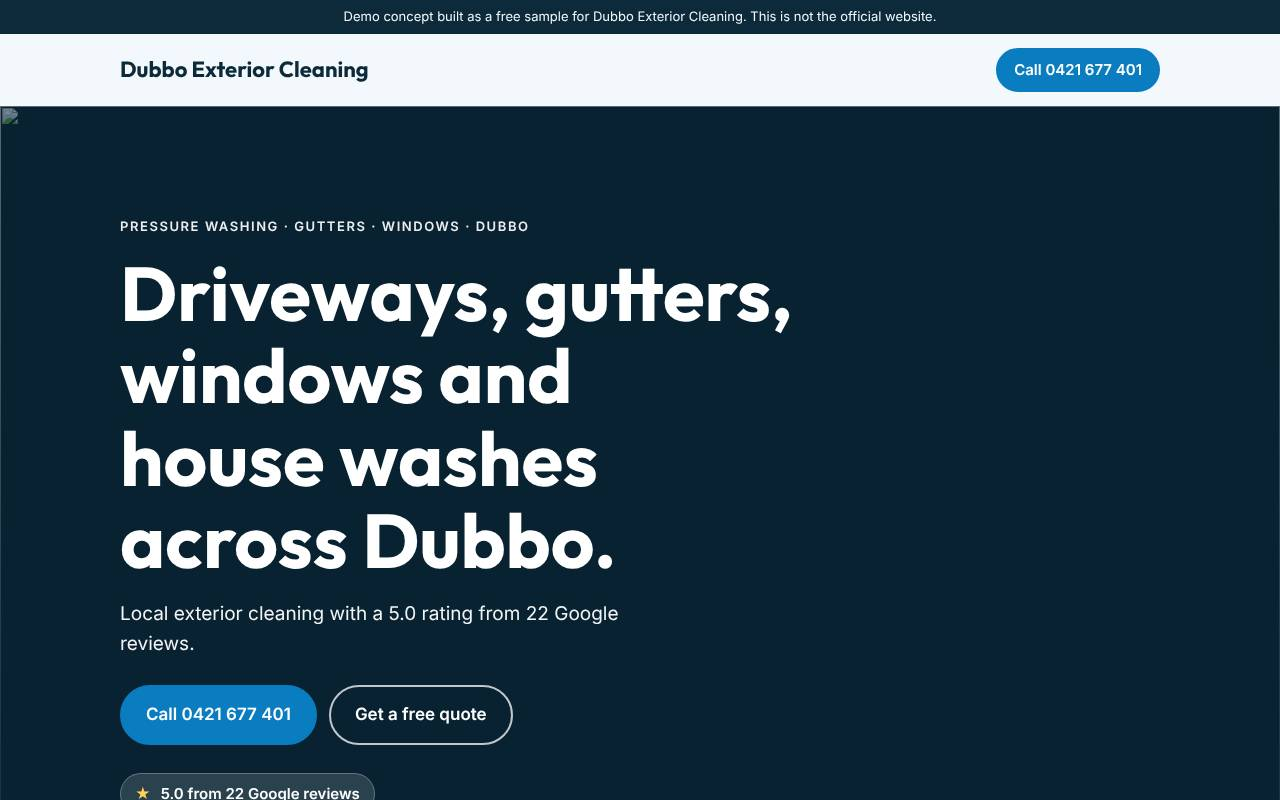
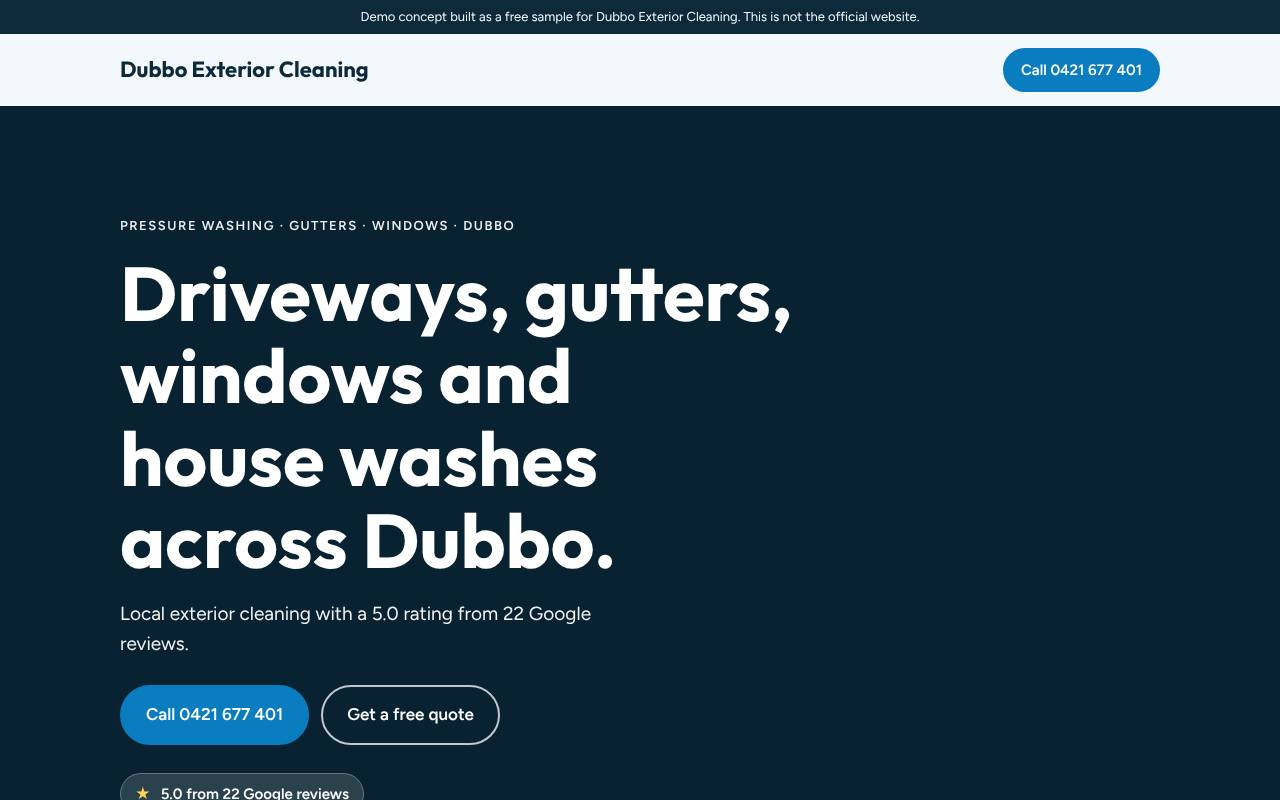
Replace Inter with distinct body fonts across demo and studio pages
Each affected demo now has its own body face (Instrument Sans, Albert
Sans, Figtree, Archivo) so the demos no longer share one generic font.
Rebuilds the site and re-shoots the four affected demos.

Claude-Session: https://claude.ai/code/session_01G6vTZEbZJwDra4ZmzM1Kxf

diff --git a/sales-pipeline/build.js b/sales-pipeline/build.js
@@ -14,14 +14,14 @@ const esc = (s) => String(s == null ? '' : s).replace(/&/g, '&amp;').replace(/</
 
 const THEMES = {
   lawn: { fonts: 'Barlow+Condensed:wght@600;700&family=Barlow:wght@400;500;600', hf: "'Barlow Condensed'", bf: "'Barlow'", bg: '#F4F6EF', surface: '#FFFFFF', ink: '#14261A', muted: '#566458', line: '#DDE3D6', accent: '#2E7D32', accentInk: '#FFFFFF', tint: '16,34,22', upper: true },
-  'lawn-sun': { fonts: 'Bricolage+Grotesque:wght@600;800&family=Inter:wght@400;500;600', hf: "'Bricolage Grotesque'", bf: "'Inter'", bg: '#FFFBEA', surface: '#FFFFFF', ink: '#1F2A14', muted: '#5C6650', line: '#EADFB8', accent: '#F2B705', accentInk: '#1F2A14', accentText: '#7A5C00', tint: '26,38,16' },
+  'lawn-sun': { fonts: 'Bricolage+Grotesque:wght@600;800&family=Instrument+Sans:wght@400;500;600', hf: "'Bricolage Grotesque'", bf: "'Instrument Sans'", bg: '#FFFBEA', surface: '#FFFFFF', ink: '#1F2A14', muted: '#5C6650', line: '#EADFB8', accent: '#F2B705', accentInk: '#1F2A14', accentText: '#7A5C00', tint: '26,38,16' },
   cafe: { fonts: 'Fraunces:opsz,wght@9..144,500;9..144,700&family=DM+Sans:wght@400;500;700', hf: "'Fraunces'", bf: "'DM Sans'", bg: '#FAF5EC', surface: '#FFFFFF', ink: '#2B2118', muted: '#6B5D50', line: '#E8DCC8', accent: '#C4552D', accentInk: '#FFFFFF', tint: '43,33,24' },
   diner: { fonts: 'Oswald:wght@500;700&family=DM+Sans:wght@400;500;700', hf: "'Oswald'", bf: "'DM Sans'", bg: '#FFF7EE', surface: '#FFFFFF', ink: '#1B1B1F', muted: '#5F5A57', line: '#F0DDCB', accent: '#D7263D', accentInk: '#FFFFFF', tint: '40,10,16', upper: true, checker: true },
-  detailing: { dark: true, fonts: 'Sora:wght@600;700&family=Inter:wght@400;500;600', hf: "'Sora'", bf: "'Inter'", bg: '#0D1117', surface: '#161B22', ink: '#F0F3F6', muted: '#9BA7B4', line: '#27303B', accent: '#3BA7FF', accentInk: '#06131F', tint: '6,10,16' },
+  detailing: { dark: true, fonts: 'Sora:wght@600;700&family=Albert+Sans:wght@400;500;600', hf: "'Sora'", bf: "'Albert Sans'", bg: '#0D1117', surface: '#161B22', ink: '#F0F3F6', muted: '#9BA7B4', line: '#27303B', accent: '#3BA7FF', accentInk: '#06131F', tint: '6,10,16' },
   mechanic: { dark: true, fonts: 'Barlow+Condensed:wght@600;700&family=Barlow:wght@400;500;600', hf: "'Barlow Condensed'", bf: "'Barlow'", bg: '#141618', surface: '#1D2023', ink: '#F3F1EC', muted: '#A6A39C', line: '#2E3236', accent: '#F28C28', accentInk: '#1A1206', tint: '12,13,14', upper: true },
-  wash: { fonts: 'Outfit:wght@600;700&family=Inter:wght@400;500;600', hf: "'Outfit'", bf: "'Inter'", bg: '#F2F8FC', surface: '#FFFFFF', ink: '#0C2A3A', muted: '#4F6675', line: '#D5E6F0', accent: '#0A7CC0', accentInk: '#FFFFFF', tint: '8,34,50' },
+  wash: { fonts: 'Outfit:wght@600;700&family=Figtree:wght@400;500;600', hf: "'Outfit'", bf: "'Figtree'", bg: '#F2F8FC', surface: '#FFFFFF', ink: '#0C2A3A', muted: '#4F6675', line: '#D5E6F0', accent: '#0A7CC0', accentInk: '#FFFFFF', tint: '8,34,50' },
   sparky: { dark: true, fonts: 'Barlow+Condensed:wght@600;700&family=Barlow:wght@400;500;600', hf: "'Barlow Condensed'", bf: "'Barlow'", bg: '#0B1B2B', surface: '#12273C', ink: '#F4F7FA', muted: '#9FB3C6', line: '#1F3A55', accent: '#FFC629', accentInk: '#0B1B2B', tint: '8,20,34', upper: true },
-  barber: { dark: true, fonts: 'Anton&family=Inter:wght@400;500;600', hf: "'Anton'", bf: "'Inter'", bg: '#0F0F10', surface: '#1A1A1C', ink: '#F5F2EA', muted: '#A8A39A', line: '#2B2B2E', accent: '#E0B04A', accentInk: '#14100A', tint: '10,10,10', upper: true },
+  barber: { dark: true, fonts: 'Anton&family=Archivo:wght@400;500;600', hf: "'Anton'", bf: "'Archivo'", bg: '#0F0F10', surface: '#1A1A1C', ink: '#F5F2EA', muted: '#A8A39A', line: '#2B2B2E', accent: '#E0B04A', accentInk: '#14100A', tint: '10,10,10', upper: true },
   'barber-classic': { fonts: 'DM+Serif+Display&family=DM+Sans:wght@400;500;700', hf: "'DM Serif Display'", bf: "'DM Sans'", bg: '#F6F1E7', surface: '#FFFDF8', ink: '#1E2A22', muted: '#5E675F', line: '#E2D9C6', accent: '#8A2B2B', accentInk: '#FFFFFF', tint: '30,42,34' },
 };
 
@@ -187,11 +187,11 @@ ${themes}
 
 // ---------- studio pages (one-pager + portfolio) ----------
 const STUDIO_CSS = `
-*{box-sizing:border-box}body{margin:0;background:#F7F5F0;color:#17202A;font:400 17px/1.65 'Inter',system-ui,sans-serif}
-h1,h2,h3{font-family:'Bricolage Grotesque','Inter',sans-serif;line-height:1.1;margin:0;text-wrap:balance}
+*{box-sizing:border-box}body{margin:0;background:#F7F5F0;color:#17202A;font:400 17px/1.65 'Instrument Sans',system-ui,sans-serif}
+h1,h2,h3{font-family:'Bricolage Grotesque','Instrument Sans',sans-serif;line-height:1.1;margin:0;text-wrap:balance}
 .wrap{max-width:920px;margin:0 auto;padding:0 20px}a{color:#0B5FFF}
 header{padding:22px 0;font-weight:700;font-family:'Bricolage Grotesque';font-size:20px}
-header a{text-decoration:none;color:inherit}nav{float:right;font:500 15px 'Inter'}nav a{margin-left:16px}
+header a{text-decoration:none;color:inherit}nav{float:right;font:500 15px 'Instrument Sans'}nav a{margin-left:16px}
 .lead{padding:48px 0 40px}.lead h1{font-size:clamp(36px,8vw,64px);max-width:16ch}.lead p{font-size:20px;max-width:52ch;color:#44505C}
 .btn{display:inline-block;background:#17202A;color:#fff;text-decoration:none;font-weight:600;border-radius:999px;padding:14px 24px;margin-top:8px}
 section{padding:40px 0;border-top:1px solid #E2DED4}h2{font-size:clamp(26px,5vw,36px);margin-bottom:18px}
@@ -214,7 +214,7 @@ const shell = (title, body) => `<!doctype html>
 <html lang="en"><head><meta charset="utf-8"><meta name="viewport" content="width=device-width, initial-scale=1">
 <meta name="robots" content="noindex, nofollow"><title>${esc(title)}</title>
 <link rel="preconnect" href="https://fonts.googleapis.com"><link rel="preconnect" href="https://fonts.gstatic.com" crossorigin>
-<link href="https://fonts.googleapis.com/css2?family=Bricolage+Grotesque:wght@600;800&family=Inter:wght@400;500;600&display=swap" rel="stylesheet">
+<link href="https://fonts.googleapis.com/css2?family=Bricolage+Grotesque:wght@600;800&family=Instrument+Sans:wght@400;500;600&display=swap" rel="stylesheet">
 <link rel="stylesheet" href="/assets/studio.css"></head><body>
 <div class="wrap"><header><a href="/">${esc(studioName)}</a><nav><a href="/">Pricing</a><a href="/work/">Work</a></nav></header></div>
 ${body}

diff --git a/sales-pipeline/site/shivs-mowing/index.html b/sales-pipeline/site/shivs-mowing/index.html
@@ -7,10 +7,10 @@
 <title>Shiv's Mowing | demo concept</title>
 <meta name="description" content="Demo homepage concept for Shiv's Mowing, Bundaberg QLD. Not the official website.">
 <link rel="preconnect" href="https://fonts.googleapis.com"><link rel="preconnect" href="https://fonts.gstatic.com" crossorigin>
-<link href="https://fonts.googleapis.com/css2?family=Bricolage+Grotesque:wght@600;800&family=Inter:wght@400;500;600&display=swap" rel="stylesheet">
+<link href="https://fonts.googleapis.com/css2?family=Bricolage+Grotesque:wght@600;800&family=Instrument+Sans:wght@400;500;600&display=swap" rel="stylesheet">
 <link rel="stylesheet" href="../assets/demo.css">
 </head>
-<body style="--bg:#FFFBEA;--surface:#FFFFFF;--ink:#1F2A14;--muted:#5C6650;--line:#EADFB8;--accent:#F2B705;--accent-ink:#1F2A14;--accent-text:#7A5C00;--tint:26,38,16;--hf:'Bricolage Grotesque';--bf:'Inter'" class="">
+<body style="--bg:#FFFBEA;--surface:#FFFFFF;--ink:#1F2A14;--muted:#5C6650;--line:#EADFB8;--accent:#F2B705;--accent-ink:#1F2A14;--accent-text:#7A5C00;--tint:26,38,16;--hf:'Bricolage Grotesque';--bf:'Instrument Sans'" class="">
 <div class="ribbon">Demo concept built as a free sample for Shiv's Mowing. This is not the official website.</div>
 <header class="top">
   <a class="brand" href="#top">Shiv's Mowing</a>

diff --git a/sales-pipeline/site/kalgoorlie-mobile-detailing/index.html b/sales-pipeline/site/kalgoorlie-mobile-detailing/index.html
@@ -7,10 +7,10 @@
 <title>Kalgoorlie Mobile Detailing | demo concept</title>
 <meta name="description" content="Demo homepage concept for Kalgoorlie Mobile Detailing, Kalgoorlie WA. Not the official website.">
 <link rel="preconnect" href="https://fonts.googleapis.com"><link rel="preconnect" href="https://fonts.gstatic.com" crossorigin>
-<link href="https://fonts.googleapis.com/css2?family=Sora:wght@600;700&family=Inter:wght@400;500;600&display=swap" rel="stylesheet">
+<link href="https://fonts.googleapis.com/css2?family=Sora:wght@600;700&family=Albert+Sans:wght@400;500;600&display=swap" rel="stylesheet">
 <link rel="stylesheet" href="../assets/demo.css">
 </head>
-<body style="--bg:#0D1117;--surface:#161B22;--ink:#F0F3F6;--muted:#9BA7B4;--line:#27303B;--accent:#3BA7FF;--accent-ink:#06131F;--accent-text:#3BA7FF;--tint:6,10,16;--hf:'Sora';--bf:'Inter'" class="">
+<body style="--bg:#0D1117;--surface:#161B22;--ink:#F0F3F6;--muted:#9BA7B4;--line:#27303B;--accent:#3BA7FF;--accent-ink:#06131F;--accent-text:#3BA7FF;--tint:6,10,16;--hf:'Sora';--bf:'Albert Sans'" class="">
 <div class="ribbon">Demo concept built as a free sample for Kalgoorlie Mobile Detailing. This is not the official website.</div>
 <header class="top">
   <a class="brand" href="#top">Kalgoorlie Mobile Detailing</a>

diff --git a/sales-pipeline/site/dubbo-exterior-cleaning/index.html b/sales-pipeline/site/dubbo-exterior-cleaning/index.html
@@ -7,10 +7,10 @@
 <title>Dubbo Exterior Cleaning | demo concept</title>
 <meta name="description" content="Demo homepage concept for Dubbo Exterior Cleaning, Dubbo NSW. Not the official website.">
 <link rel="preconnect" href="https://fonts.googleapis.com"><link rel="preconnect" href="https://fonts.gstatic.com" crossorigin>
-<link href="https://fonts.googleapis.com/css2?family=Outfit:wght@600;700&family=Inter:wght@400;500;600&display=swap" rel="stylesheet">
+<link href="https://fonts.googleapis.com/css2?family=Outfit:wght@600;700&family=Figtree:wght@400;500;600&display=swap" rel="stylesheet">
 <link rel="stylesheet" href="../assets/demo.css">
 </head>
-<body style="--bg:#F2F8FC;--surface:#FFFFFF;--ink:#0C2A3A;--muted:#4F6675;--line:#D5E6F0;--accent:#0A7CC0;--accent-ink:#FFFFFF;--accent-text:#0A7CC0;--tint:8,34,50;--hf:'Outfit';--bf:'Inter'" class="">
+<body style="--bg:#F2F8FC;--surface:#FFFFFF;--ink:#0C2A3A;--muted:#4F6675;--line:#D5E6F0;--accent:#0A7CC0;--accent-ink:#FFFFFF;--accent-text:#0A7CC0;--tint:8,34,50;--hf:'Outfit';--bf:'Figtree'" class="">
 <div class="ribbon">Demo concept built as a free sample for Dubbo Exterior Cleaning. This is not the official website.</div>
 <header class="top">
   <a class="brand" href="#top">Dubbo Exterior Cleaning</a>

diff --git a/sales-pipeline/site/assets/studio.css b/sales-pipeline/site/assets/studio.css
@@ -1,8 +1,8 @@
-*{box-sizing:border-box}body{margin:0;background:#F7F5F0;color:#17202A;font:400 17px/1.65 'Inter',system-ui,sans-serif}
-h1,h2,h3{font-family:'Bricolage Grotesque','Inter',sans-serif;line-height:1.1;margin:0;text-wrap:balance}
+*{box-sizing:border-box}body{margin:0;background:#F7F5F0;color:#17202A;font:400 17px/1.65 'Instrument Sans',system-ui,sans-serif}
+h1,h2,h3{font-family:'Bricolage Grotesque','Instrument Sans',sans-serif;line-height:1.1;margin:0;text-wrap:balance}
 .wrap{max-width:920px;margin:0 auto;padding:0 20px}a{color:#0B5FFF}
 header{padding:22px 0;font-weight:700;font-family:'Bricolage Grotesque';font-size:20px}
-header a{text-decoration:none;color:inherit}nav{float:right;font:500 15px 'Inter'}nav a{margin-left:16px}
+header a{text-decoration:none;color:inherit}nav{float:right;font:500 15px 'Instrument Sans'}nav a{margin-left:16px}
 .lead{padding:48px 0 40px}.lead h1{font-size:clamp(36px,8vw,64px);max-width:16ch}.lead p{font-size:20px;max-width:52ch;color:#44505C}
 .btn{display:inline-block;background:#17202A;color:#fff;text-decoration:none;font-weight:600;border-radius:999px;padding:14px 24px;margin-top:8px}
 section{padding:40px 0;border-top:1px solid #E2DED4}h2{font-size:clamp(26px,5vw,36px);margin-bottom:18px}

diff --git a/sales-pipeline/site/barberz-republic/index.html b/sales-pipeline/site/barberz-republic/index.html
@@ -7,10 +7,10 @@
 <title>Barberz Republic | demo concept</title>
 <meta name="description" content="Demo homepage concept for Barberz Republic, Whyalla SA. Not the official website.">
 <link rel="preconnect" href="https://fonts.googleapis.com"><link rel="preconnect" href="https://fonts.gstatic.com" crossorigin>
-<link href="https://fonts.googleapis.com/css2?family=Anton&family=Inter:wght@400;500;600&display=swap" rel="stylesheet">
+<link href="https://fonts.googleapis.com/css2?family=Anton&family=Archivo:wght@400;500;600&display=swap" rel="stylesheet">
 <link rel="stylesheet" href="../assets/demo.css">
 </head>
-<body style="--bg:#0F0F10;--surface:#1A1A1C;--ink:#F5F2EA;--muted:#A8A39A;--line:#2B2B2E;--accent:#E0B04A;--accent-ink:#14100A;--accent-text:#E0B04A;--tint:10,10,10;--hf:'Anton';--bf:'Inter'" class="upper">
+<body style="--bg:#0F0F10;--surface:#1A1A1C;--ink:#F5F2EA;--muted:#A8A39A;--line:#2B2B2E;--accent:#E0B04A;--accent-ink:#14100A;--accent-text:#E0B04A;--tint:10,10,10;--hf:'Anton';--bf:'Archivo'" class="upper">
 <div class="ribbon">Demo concept built as a free sample for Barberz Republic. This is not the official website.</div>
 <header class="top">
   <a class="brand" href="#top">Barberz Republic</a>

diff --git a/sales-pipeline/site/index.html b/sales-pipeline/site/index.html
@@ -2,7 +2,7 @@
 <html lang="en"><head><meta charset="utf-8"><meta name="viewport" content="width=device-width, initial-scale=1">
 <meta name="robots" content="noindex, nofollow"><title>Web studio | one-page websites for local businesses</title>
 <link rel="preconnect" href="https://fonts.googleapis.com"><link rel="preconnect" href="https://fonts.gstatic.com" crossorigin>
-<link href="https://fonts.googleapis.com/css2?family=Bricolage+Grotesque:wght@600;800&family=Inter:wght@400;500;600&display=swap" rel="stylesheet">
+<link href="https://fonts.googleapis.com/css2?family=Bricolage+Grotesque:wght@600;800&family=Instrument+Sans:wght@400;500;600&display=swap" rel="stylesheet">
 <link rel="stylesheet" href="/assets/studio.css"></head><body>
 <div class="wrap"><header><a href="/">Web studio</a><nav><a href="/">Pricing</a><a href="/work/">Work</a></nav></header></div>
 

diff --git a/sales-pipeline/site/work/index.html b/sales-pipeline/site/work/index.html
@@ -2,7 +2,7 @@
 <html lang="en"><head><meta charset="utf-8"><meta name="viewport" content="width=device-width, initial-scale=1">
 <meta name="robots" content="noindex, nofollow"><title>Web studio | demo sites</title>
 <link rel="preconnect" href="https://fonts.googleapis.com"><link rel="preconnect" href="https://fonts.gstatic.com" crossorigin>
-<link href="https://fonts.googleapis.com/css2?family=Bricolage+Grotesque:wght@600;800&family=Inter:wght@400;500;600&display=swap" rel="stylesheet">
+<link href="https://fonts.googleapis.com/css2?family=Bricolage+Grotesque:wght@600;800&family=Instrument+Sans:wght@400;500;600&display=swap" rel="stylesheet">
 <link rel="stylesheet" href="/assets/studio.css"></head><body>
 <div class="wrap"><header><a href="/">Web studio</a><nav><a href="/">Pricing</a><a href="/work/">Work</a></nav></header></div>
 
